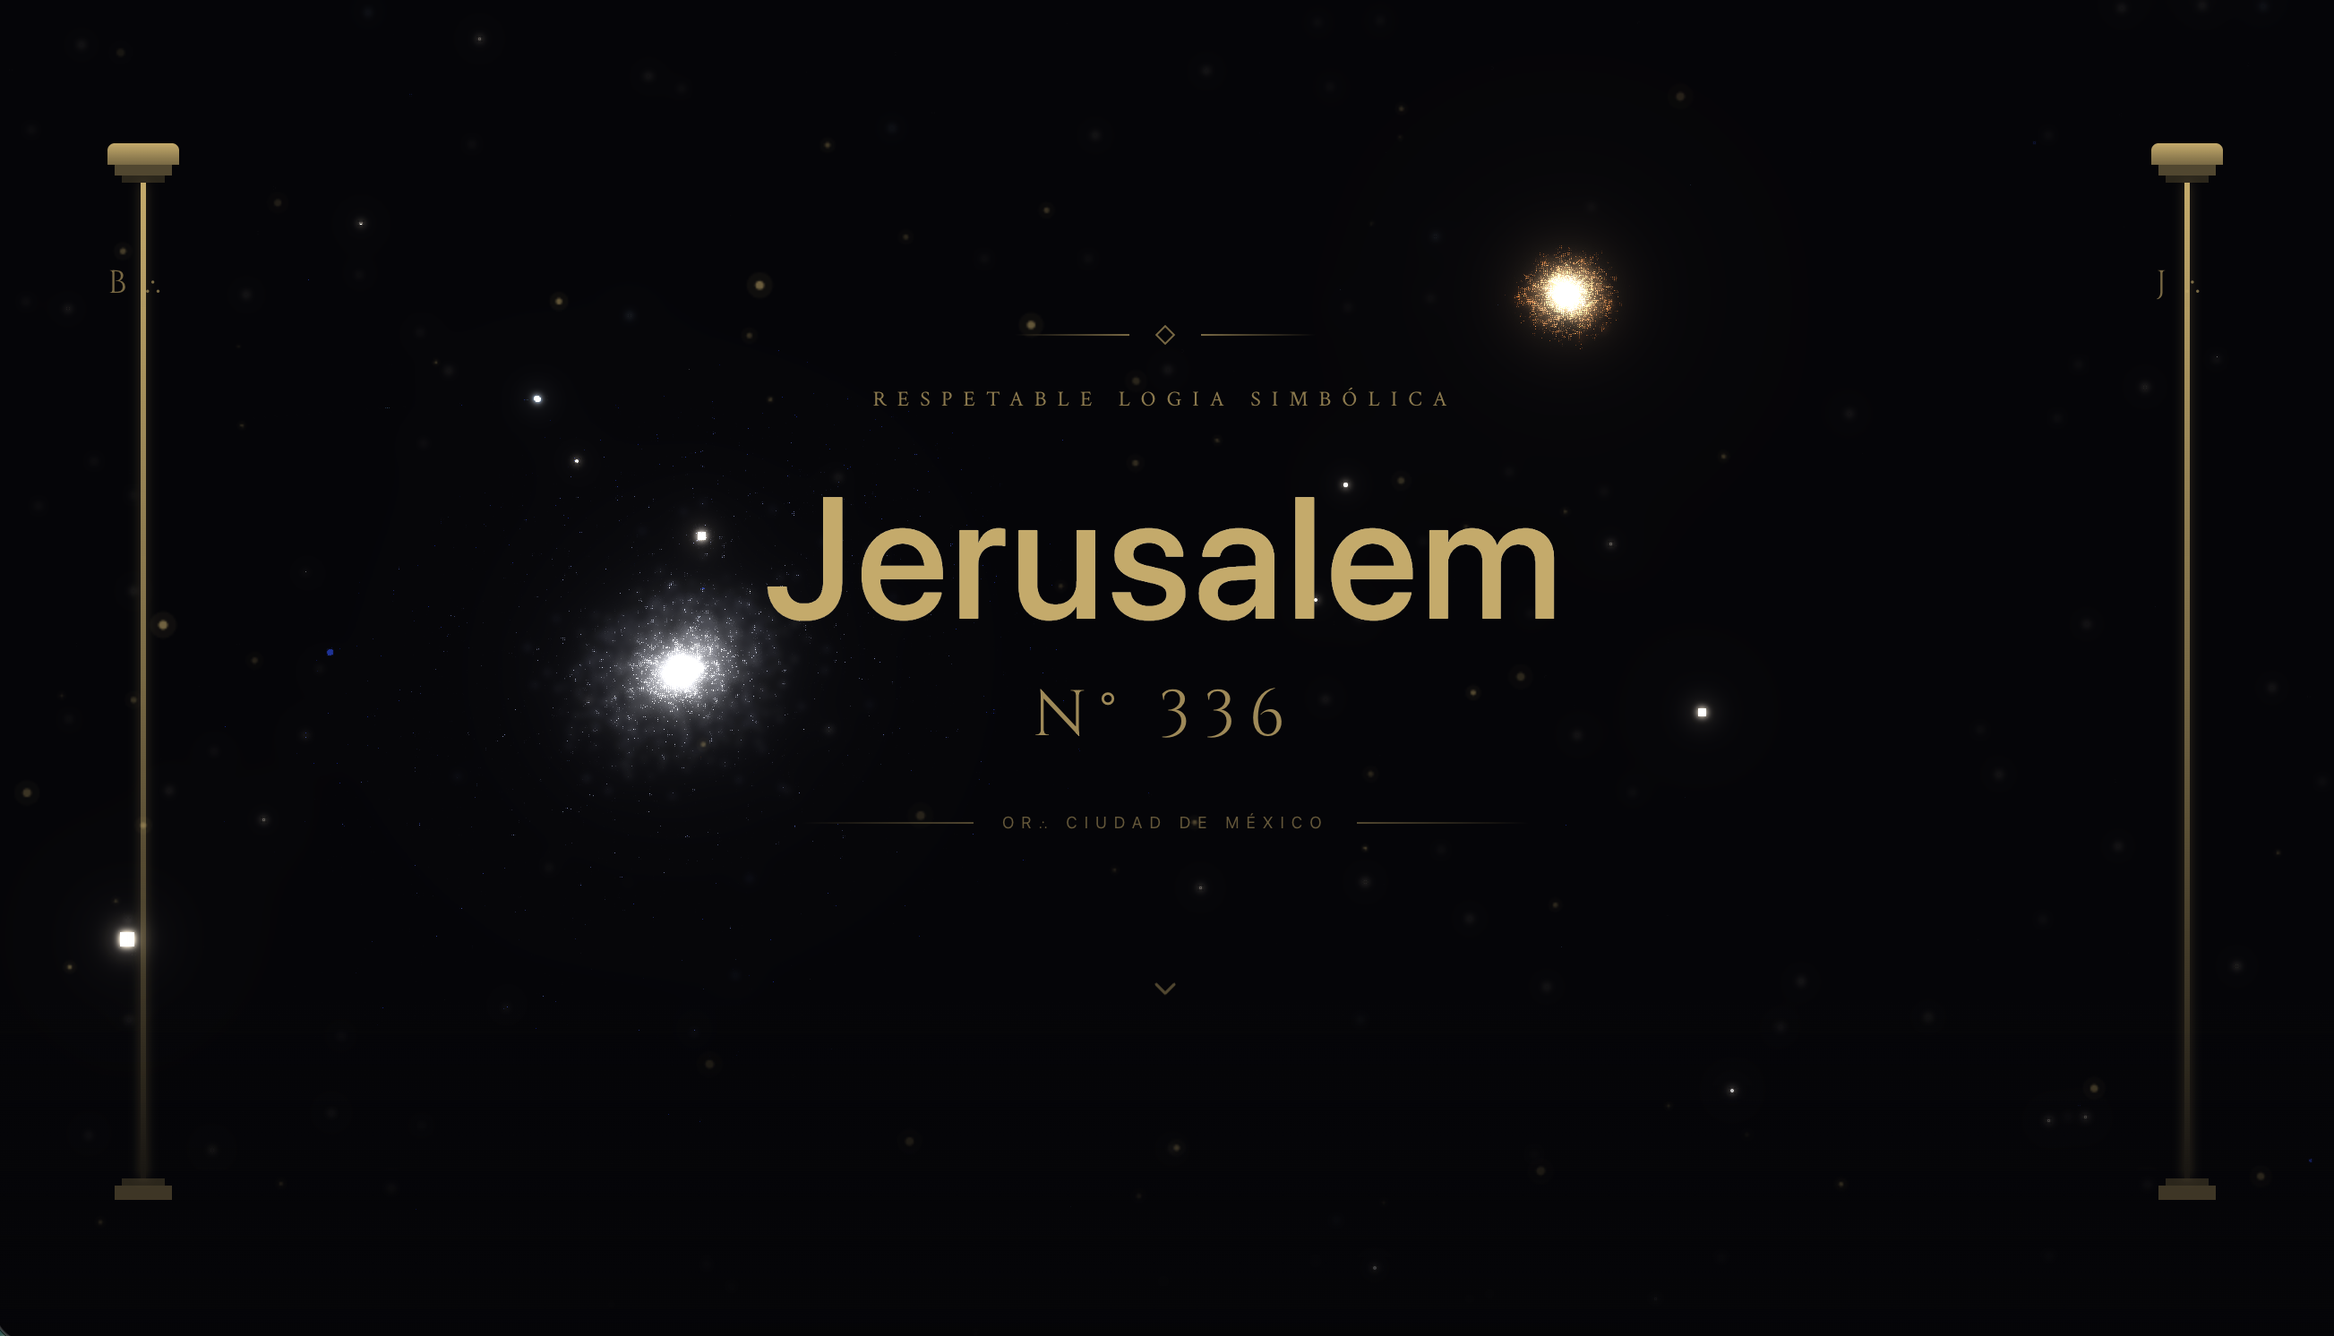
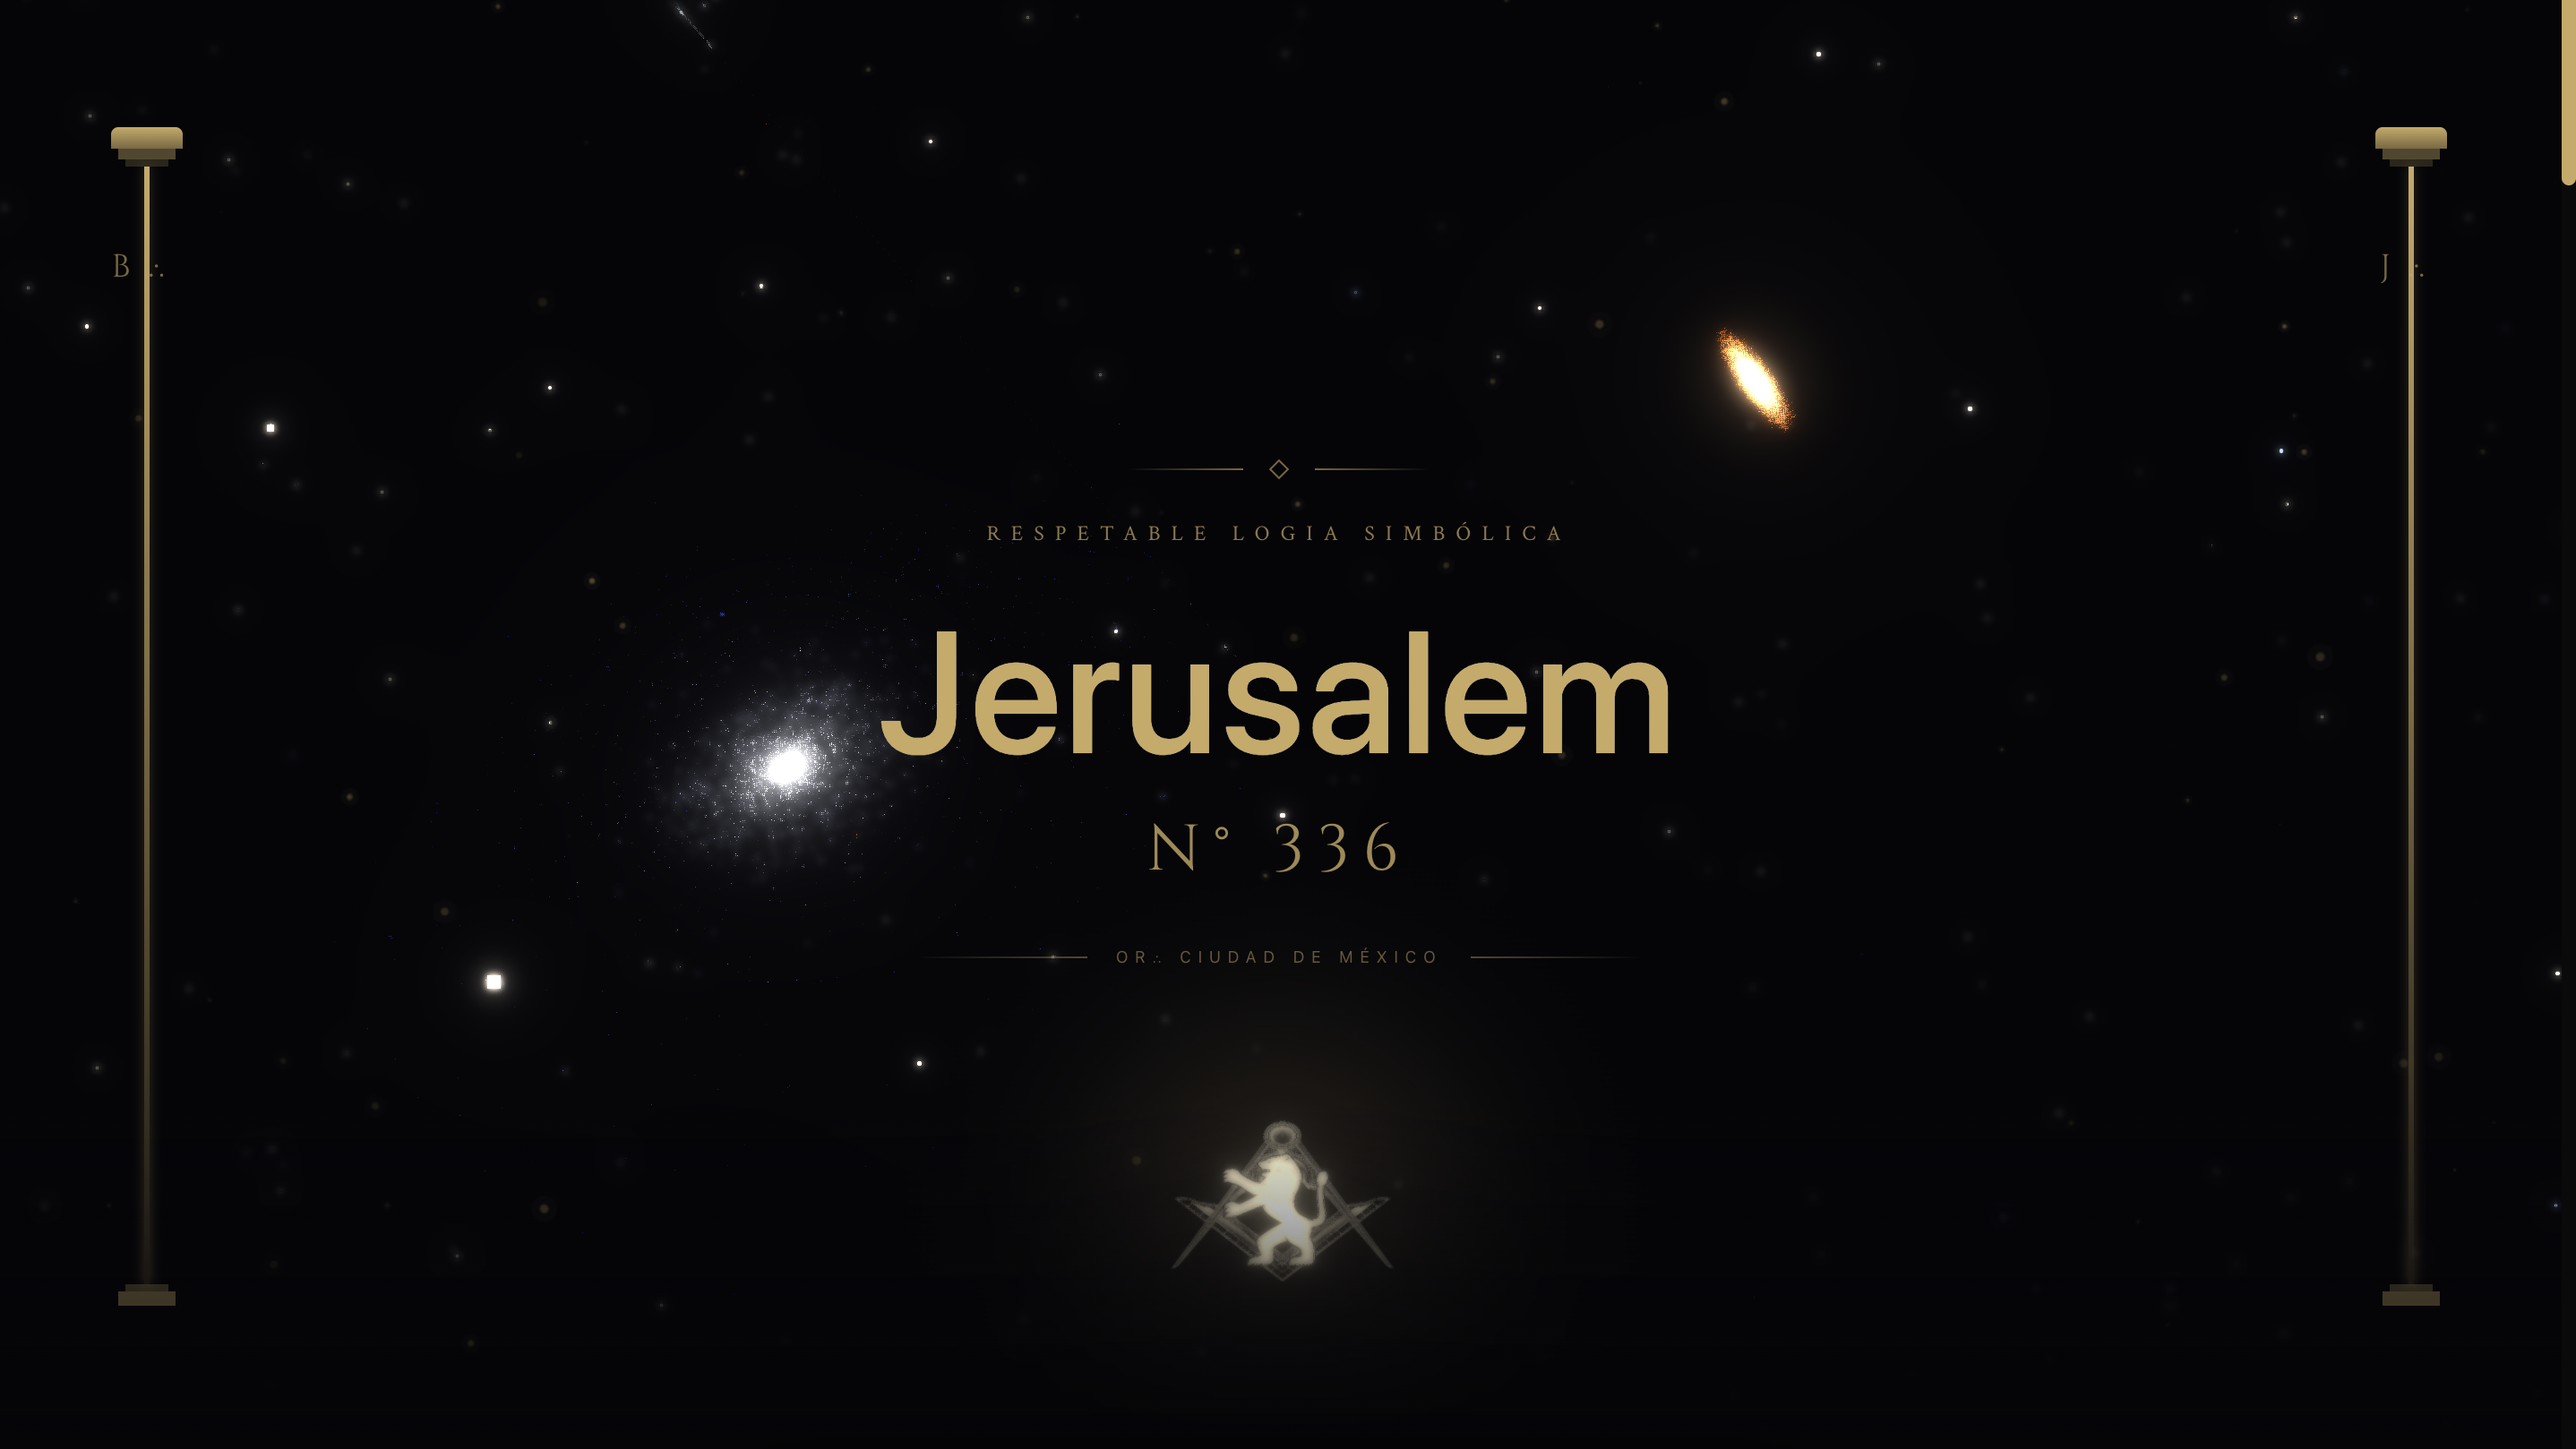
add Mindfulverso, Kan Tasejkan, Inland Mex to clientes + update Jerusalem screenshot

diff --git a/src/app/components/PortfolioSection.tsx b/src/app/components/PortfolioSection.tsx
@@ -55,6 +55,9 @@ const categories: Category[] = [
       { url: "https://rls-jerusalem-336-ivory.vercel.app/", label: "RLS Jerusalem" },
       { url: "https://patrimo.pro", label: "Patrimo" },
       { url: "https://www.patas4land.xyz", label: "Patas4Land" },
+      { url: "https://mindfulverso-zeta.vercel.app/", label: "Mindfulverso" },
+      { url: "https://kan-tasejkan.vercel.app/", label: "Kan Tasejkan" },
+      { url: "https://inland-mex.vercel.app/", label: "Inland Mex" },
     ],
   },
   {
